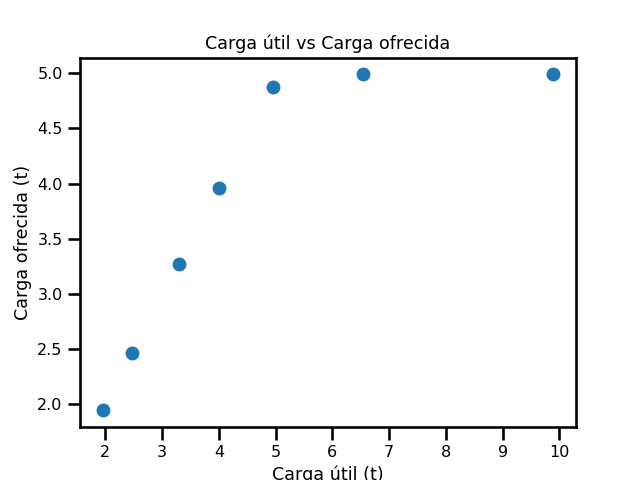
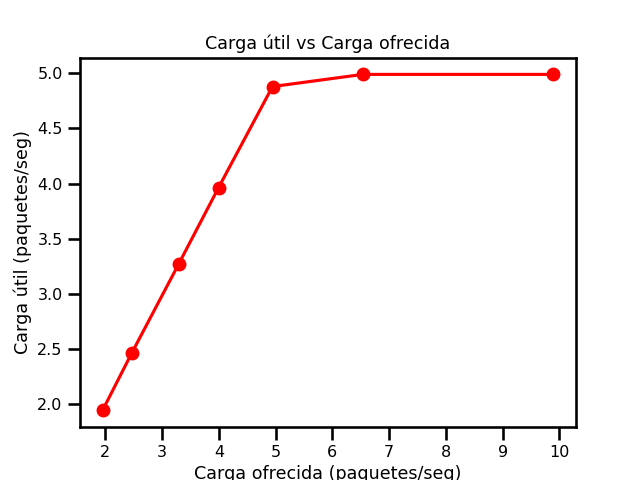
Continuacion informe

diff --git a/codigo1/graficas/aprovechamineto.py b/codigo1/graficas/aprovechamineto.py
@@ -1,5 +1,6 @@
 import matplotlib.pyplot as plt
 import seaborn as sns
+import numpy as np
 
 # intervalos de generacion = {0.1, 0.15, 0.2, 0.25, 0.3, 0.4, 0.5}
 
@@ -8,14 +9,20 @@ import seaborn as sns
 # tiempo de simulacion = 200 ---> paquetes recibidos = 1979
 #                          1 ---> x = 1979/200 = 9.895
 
+intervalos_generacion = [0.1, 0.15, 0.2, 0.25, 0.3, 0.4, 0.5]
 carga_ofrecida = [9.895, 6.535, 4.945, 3.995, 3.295, 2.465, 1.95]
 carga_util = [4.99, 4.99, 4.88, 3.965, 3.275, 2.465, 1.945]
 
+carga_util = np.array(carga_util)
+carga_ofrecida = np.array(carga_ofrecida)
+
+aprovechamiento = carga_util / carga_ofrecida 
+
 sns.set_context(context='talk', font_scale=0.7)
 
-plt.plot(carga_ofrecida, carga_util, 'ro-')
-plt.xlabel('Carga ofrecida (paquetes/seg)')
-plt.ylabel('Carga útil (paquetes/seg)')
-plt.title('Carga útil vs Carga ofrecida')
+plt.plot(intervalos_generacion, aprovechamiento, 'ro-')
+plt.xlabel('Intervalos de generacion (seg)')
+plt.ylabel('Paquetes recibidos / paquetes enviados')
+plt.title('Aprovechamiento vs Intervalos de generacion')
 plt.show()
-plt.savefig('carga.png')
+plt.savefig('aprovechamiento.png')

diff --git a/README.md b/README.md
@@ -18,6 +18,7 @@ En este laboratiorio llevamos a cabo un estudio para evaluar el control de flujo
 ## Introducción
 
 Vamos a usar el siguiente modelo:
+
 ![Estructura](/images/estructura_part1.png)
 
 Nuestra red consta de un `generador` (nodeTx) y un `receptor` (nodeRx), el cual están conectados através de un nodo intermedio `queue`. 
@@ -28,7 +29,7 @@ Contiene dos componentes, un generador y una queue con un buffer interno. Este s
 ### NodeRx
 Contiene también una queue pero con un receptor. Su función es la de ir recibiendo paquetes por la queue e ir "consumiendolos". Los paquetes serán almacenados en un buffer y cuando esté lleno los mismos serán descartados.
 
-### Queue
+### Queue (Nx)
 Es la encargada de ir recibiendo los paquetes de un nodo e ir enviandoselos al otro a medida que se le es posible. 
 Contiene un buffer interno en el cual va a ir guardando los paquetes y cuando el mismo se llene, los entrantes serán descartados.
 
@@ -45,18 +46,48 @@ En este trabajo vamos a estudiar dos casos sobre el mismo modelo, en los que var
 
 ## Caso 1
 
+
 | 0.1 | 0.2 | 0.3 |
 |----------|----------|----------|
 | ![a](/codigo1/graficas/buffers_caso1_0.1.png)    | ![a](/codigo1/graficas/buffers_caso1_0.2.png)   | ![a](/codigo1/graficas/buffers_caso1_0.3.png)   |
 | ![a](/codigo1/graficas/env_rcv_caso1_0.1.png)    | ![a](/codigo1/graficas/env_rcv_caso1_0.2.png)   | ![a](/codigo1/graficas/env_rcv_caso1_0.3.png)   |
 | ![a](/codigo1/graficas/retraso_caso1_0.1.png)    | ![a](/codigo1/graficas/retraso_caso1_0.2.png)   | ![a](/codigo1/graficas/retraso_caso1_0.3.png)   |
 
+**Nx es el buffer del nodo queue1**
 
+Se puede ver en la figura de ocupación de buffers del caso 0.1 que hay un problema de saturación en el nodo `queue1` y que a partir de este se reduce la carga útil. En los otros casos, no es tan aparente este problema ya que la red tiene capacidad suficiente para aprovechar los paquetes enviados.
+### Carga Util vs Ofrecida
+
+![Carga Util](/codigo1/graficas/carga.png)
+
+### Aprovechamiento vs Intervalos de generación
+
+![Carga Util](/codigo1/graficas/aprovechamiento.png)
+
+## Caso 2
+
+| 0.1 | 0.2 | 0.3 |
+|----------|----------|----------|
+| ![a](/codigo1/graficas/buffer_caso2_0.1.png)    | ![a](/codigo1/graficas/buffer_caso2_0.2.png)   | ![a](/codigo1/graficas/buffer_caso2_0.3.png)   |
+| ![a](/codigo1/graficas/env_rcv_caso1_0.1.png)    | ![a](/codigo1/graficas/env_rcv_caso1_0.2.png)   | ![a](/codigo1/graficas/env_rcv_caso1_0.3.png)   |
+| ![a](/codigo1/graficas/retraso_caso1_0.1.png)    | ![a](/codigo1/graficas/retraso_caso1_0.2.png)   | ![a](/codigo1/graficas/retraso_caso1_0.3.png)   |
+
+Al igual que en el caso 1, tenemos un problema que se hace más aparente cuando el intervalo de generación es de 0.1s. Podemos ver en la gráfica de uso de buffers que el buffer de `queue1` se llena y empieza a descartar paquetes.
+
+El resto de las gráficas es muy similar(si no idéntico) debido a que ambos casos producen los mismos efectos sobre el rendimiento.
 
 ## Métodos
 
+Super explicación del ale sobre el algoritmo + idea de por qué lo solucionaría
+
 ## Resultados
+
+Mostrar nuevos gráficos que muestren que tenemos razón o no xd
 
 ## Discusión
 
+Puntos posibles de mejora, por ejemplo "Se podría resolver con mejor performance en casos donde no hay congestión?"
+
 ## Referencias
+
+Citar videos del pelado y capaz algún artículo / paper que leamos sobre el tema que nos haya servido.
